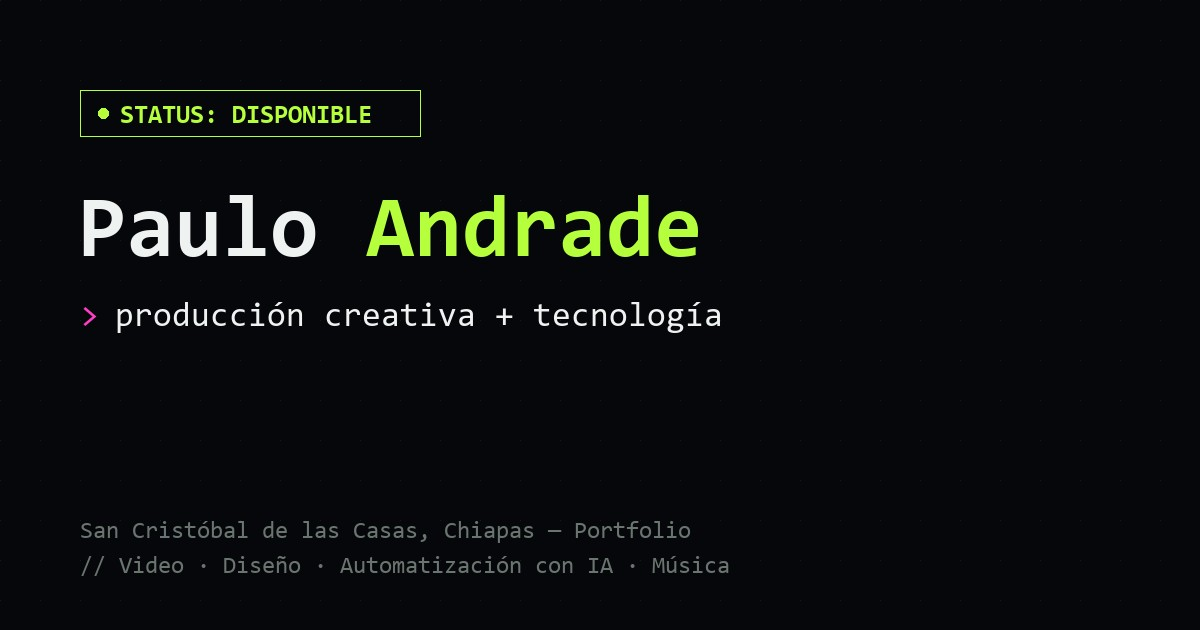
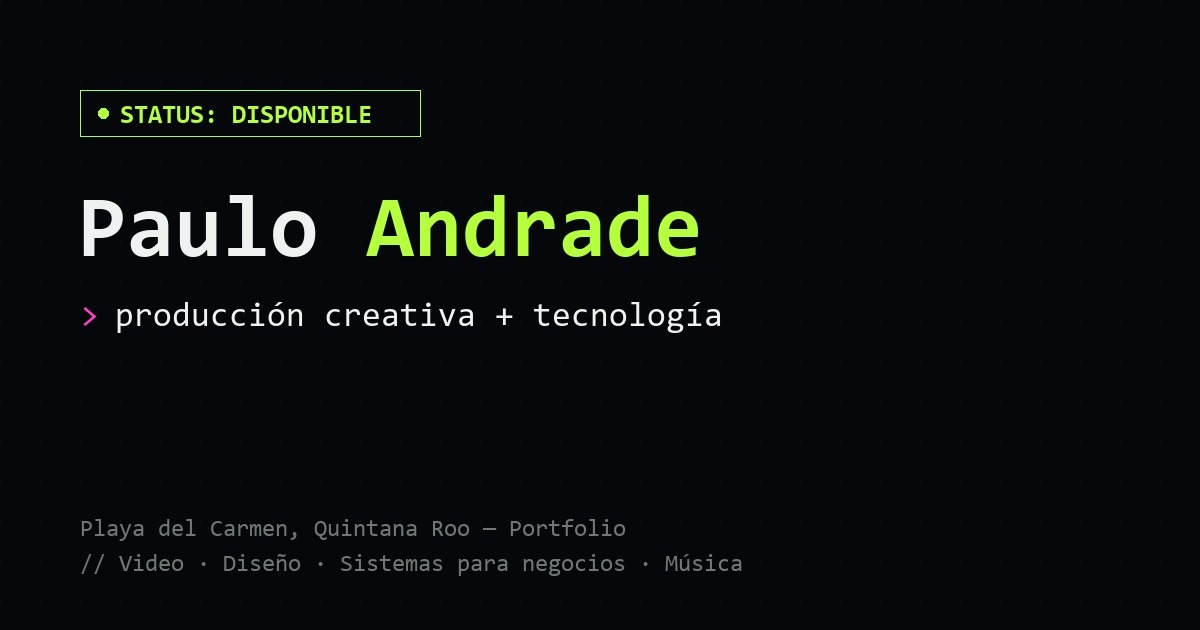
Actualizar ubicación y anunciar los sistemas para negocios
El sitio decía San Cristóbal y Paulo está en Playa del Carmen buscando clientes.
Además la portada no nombraba los sistemas de gestión, que son lo más vendible
(Vittapalma y Basicoss). Incluye descripciones, datos estructurados e imagen de
vista previa.

Changed region(s): [[0.0617, 0.8143, 0.6167, 0.9349]]

diff --git a/index.html b/index.html
@@ -6,18 +6,18 @@
 <meta name="theme-color" content="#05070a">
 <meta name="google-site-verification" content="Zu3gj9nyyXciGhUcU1KNAV0LJlqUTzNUo6-M75vfbDY" />
 <title>Paulo Andrade — Portfolio</title>
-<meta name="description" content="Paulo Andrade — producción creativa + tecnología: video, diseño y herramientas con IA. Freelance en San Cristóbal de las Casas, Chiapas.">
+<meta name="description" content="Paulo Andrade — video, diseño y sistemas a medida para negocios (inventario, ventas, agenda). Freelance en Playa del Carmen y en remoto.">
 <link rel="icon" type="image/png" href="favicon.png">
 <link rel="icon" type="image/x-icon" href="favicon.ico">
 <link rel="canonical" href="https://elnucleointerno.github.io/paulo-andrade/">
 <meta property="og:type" content="website">
 <meta property="og:title" content="Paulo Andrade — Portfolio">
-<meta property="og:description" content="Producción creativa + tecnología. Video, diseño, apps con IA y música, desde San Cristóbal de las Casas, Chiapas.">
+<meta property="og:description" content="Video, diseño, sistemas para negocios y música. Desde Playa del Carmen, Quintana Roo, y en remoto.">
 <meta property="og:image" content="https://elnucleointerno.github.io/paulo-andrade/assets/og-image.jpg">
 <meta property="og:url" content="https://elnucleointerno.github.io/paulo-andrade/">
 <meta name="twitter:card" content="summary_large_image">
 <meta name="twitter:title" content="Paulo Andrade — Portfolio">
-<meta name="twitter:description" content="Producción creativa + tecnología. Video, diseño, apps con IA y música, desde San Cristóbal de las Casas, Chiapas.">
+<meta name="twitter:description" content="Video, diseño, sistemas para negocios y música. Desde Playa del Carmen, Quintana Roo, y en remoto.">
 <meta name="twitter:image" content="https://elnucleointerno.github.io/paulo-andrade/assets/og-image.jpg">
 <link rel="preload" href="assets/fonts/jetbrains-mono-latin.woff2" as="font" type="font/woff2" crossorigin>
 <link rel="preload" href="assets/fonts/inter-latin.woff2" as="font" type="font/woff2" crossorigin>
@@ -34,8 +34,8 @@
   "jobTitle": "Productor audiovisual, diseñador gráfico y músico",
   "address": {
     "@type": "PostalAddress",
-    "addressLocality": "San Cristóbal de las Casas",
-    "addressRegion": "Chiapas",
+    "addressLocality": "Playa del Carmen",
+    "addressRegion": "Quintana Roo",
     "addressCountry": "MX"
   },
   "email": "angloguaranirecords@gmail.com",
@@ -86,17 +86,16 @@
       <p class="hero-role">producción creativa + tecnología</p>
       <p>
         Cuento historias en video, diseño experiencias visuales y construyo
-        herramientas con IA para resolver problemas creativos reales — desde
-        gestión de escenario hasta generación de audio. Freelance en San
-        Cristóbal de las Casas, Chiapas, México.
+        sistemas a medida para negocios: inventario, ventas, agenda y más.
+        Freelance en Playa del Carmen, Quintana Roo, y en remoto.
       </p>
       <div class="hero-actions">
         <a href="#espacio-latente" class="btn btn-primary">Ver proyectos</a>
         <a href="#contacto" class="btn btn-secondary">Contacto</a>
       </div>
       <div class="hero-meta">
-        <div><strong>Base</strong>San Cristóbal de las Casas, Chiapas</div>
-        <div><strong>Áreas</strong>Video · Diseño · Automatización con IA</div>
+        <div><strong>Base</strong>Playa del Carmen, Quintana Roo</div>
+        <div><strong>Áreas</strong>Video · Diseño · Sistemas y automatización</div>
         <div><strong>Sello</strong>Angloguaraní Records</div>
       </div>
     </div>
@@ -575,7 +574,7 @@
     <div class="section-head reveal">
       <div class="section-eyebrow">05 — Contacto</div>
       <h2 class="section-title">¿Hablamos de tu proyecto?</h2>
-      <p class="section-intro">Video, diseño o automatización — contame qué necesitás.</p>
+      <p class="section-intro">Video, diseño o un sistema para tu negocio: contame qué necesitás.</p>
     </div>
 
     <div class="contact-email-row">
